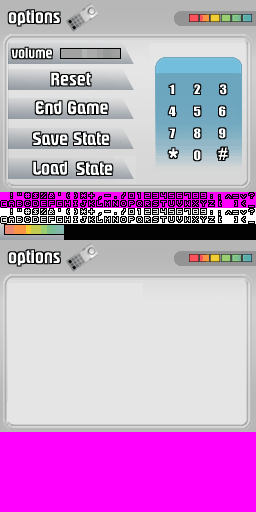
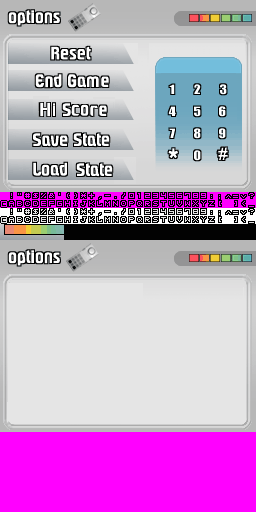
V0.4 with command line parameter support.

Changed region(s): [[0.0312, 0.0625, 0.4688, 0.375], [0.25, 0.0, 0.375, 0.0625]]

diff --git a/arm9/source/colecoDS.c b/arm9/source/colecoDS.c
@@ -53,8 +53,6 @@ bool isFATSystem=false;
 char szFATDir[256];
 char szDrv[15];
 
-u32 uSndAct;                      // Actual sound divider
-
 unsigned int soundEmuPause=1;
 
 int bg0, bg1, bg0b,bg1b;
@@ -85,18 +83,9 @@ u8 XBuf[256*256] ALIGN(32) = {0}; // Really it's only 256x192
 //*****************************************************************************
 // Boucle principale d'execution
 //*****************************************************************************
-void showMainMenu(void) {
-  u32 bBcl;
-  
-  u16 *pusEcran=(u16*) bgGetMapPtr(bg1b);
+void showMainMenu(void) 
+{
   dmaCopy((void*) bgGetMapPtr(bg0b),(void*) bgGetMapPtr(bg1b),32*24*2);
-
-  for (bBcl=0;bBcl<8;bBcl++) {
-    if ((8-(uSndAct-1)*2)>bBcl) {
-      *(pusEcran + 7 + bBcl + (6<<5)) =*((bgGetMapPtr(bg0b)+28*32+bBcl)); //*((u16*) &ecranBasMap[28][bBcl] );
-      *(pusEcran + 7 + bBcl + (7<<5)) =*((bgGetMapPtr(bg0b)+29*32+bBcl)); // *((u16*) &ecranBasMap[29][bBcl] );
-    }
-  }
 }
 
 ITCM_CODE void VsoundHandler(void)
@@ -150,7 +139,7 @@ u16 timingFrames=0;
 ITCM_CODE void colecoDS_main (void) {
   u32 keys_pressed;
   u16 iTx, iTy,iBcl;
-  u32 ucUN, ucDEUX, ResetNow = 0, SaveNow = 0, SoundNow = 0, LoadNow=0;
+  u32 ucUN, ucDEUX, ResetNow = 0, SaveNow = 0, LoadNow = 0;
   
   // Affiche le nouveau menu
   showMainMenu();
@@ -214,20 +203,9 @@ ITCM_CODE void colecoDS_main (void) {
         touchRead(&touch);
         iTx = touch.px;
         iTy = touch.py;
-        // Test if "Adjust sound" selected
-        if ((iTx>=6*8) && (iTy>=6*8) && (iTx<=15*8) && (iTy<=8*8) ) {
-          if (!SoundNow) {
-            SoundNow=1;
-            uSndAct = (uSndAct == 4 ? 1 : uSndAct + 1);
-            showMainMenu();
-            fifoSendValue32(FIFO_USER_01,(1<<16) | (127-(uSndAct-1)*24) | SOUND_SET_VOLUME);
-          }
-        }
-        else
-          SoundNow = 0;
     
         // Test if "Reset Game" selected
-        if ((iTx>=1*8) && (iTy>=9*8) && (iTx<=(1+14)*8) && (iTy<11*8) ) {
+        if ((iTx>=1*8) && (iTy>=6*8) && (iTx<=(1+14)*8) && (iTy<9*8) ) {
           if (!ResetNow) {
             ResetNow = 1;
             // Stop sound
@@ -261,7 +239,7 @@ ITCM_CODE void colecoDS_main (void) {
         }
         
         // Test if "End Game" selected
-        if ((iTx>=1*8) && (iTy>=12*8) && (iTx<=(1+14)*8) && (iTy<15*8) ) {
+        if ((iTx>=1*8) && (iTy>=9*8) && (iTx<=(1+14)*8) && (iTy<12*8) ) {
           // Stop sound
           soundEmuPause=1;
     
@@ -273,7 +251,15 @@ ITCM_CODE void colecoDS_main (void) {
           showMainMenu();
           soundEmuPause=0;
         }
-    
+
+        // Test if "High Score" selected
+        if ((iTx>=1*8) && (iTy>=12*8) && (iTx<=(1+14)*8) && (iTy<15*8) ) {
+          // Stop sound
+          soundEmuPause=1;
+          //TODO: Add High Score Support here...    
+          soundEmuPause=0;
+        }
+          
         // Test if "Save State" selected
         if ((iTx>=1*8) && (iTy>=16*8) && (iTx<=(1+14)*8) && (iTy<19*8) ) 
         {
@@ -322,7 +308,7 @@ ITCM_CODE void colecoDS_main (void) {
         ucUN = ( ((iTx>=210) && (iTy>=144) && (iTx<=234) && (iTy<=164)) ? 0x05: ucUN);
       } // SCR_TOUCH
       else {
-        ResetNow=SaveNow=SoundNow=LoadNow = 0;
+        ResetNow=SaveNow=LoadNow = 0;
       }
     
       // Test touches
@@ -355,7 +341,6 @@ ITCM_CODE void colecoDS_main (void) {
  * Init EMul
  ********************************************************************************/
 void colecoDSInit(void) {
-  char szFATDrv[5];
 
   // Get the personnals infos (language, name)
   lgeEmul = (PersonalData->language == 2 ? 0 : 1);
@@ -403,18 +388,6 @@ void colecoDSInit(void) {
   strcpy(szFATDir,"/");
   if (isFATSystem) chdir(szFATDir);
     
-  // Init drives
-  if (isFATSystem) {
-    struct stat st;
-    stat("/",&st);
-    int i = st.st_dev;//disc_HostType();
-    szFATDrv[0] = (i & 0x000000FF) >> 0;
-    szFATDrv[1] = (i & 0x0000FF00) >> 8;
-    szFATDrv[2] = (i & 0x00FF0000) >> 16;
-    szFATDrv[3] = (i & 0xFF000000) >> 24;
-    szFATDrv[4] = '\0';
-  }
-
   // Find the files
   colecoDSFindFiles();
 }
@@ -476,7 +449,9 @@ bool ColecoBIOSFound(void)
 /*********************************************************************************
  * Program entry point
  ********************************************************************************/
-int main(int argc, char **argv) {
+char initial_file[256];
+int main(int argc, char **argv) 
+{
   // Init sound
   consoleDemoInit();
   soundEnable();
@@ -505,6 +480,27 @@ int main(int argc, char **argv) {
   vramSetBankI(VRAM_I_LCD );                // Not using this for video but 16K of faster RAM always useful!  Mapped at 0x068A0000 - Used for Custom Tile Map Buffer
 
 
+  // Handle command line argument... mostly for TWL++
+  if (argc > 1) 
+  {
+      // We want to start in the directory where the file is being launched...
+      if (strchr(argv[1], '/') != NULL)
+      {
+          char path[128];
+          strcpy(path, argv[1]);
+          char *ptr = &path[strlen(path)-1];
+          while (*ptr != '/') ptr--;
+          ptr++; 
+          strcpy(initial_file, ptr);
+          *ptr=0;
+          chdir(path);
+      }
+      else
+      {
+          strcpy(initial_file, argv[1]);
+      }
+  } else initial_file[0]=0; // No file passed on command line...
+    
   // BOUCLE INFINIE !!!!
   while(1) {
     // init de l'emul et chargement des roms
@@ -528,9 +524,19 @@ int main(int argc, char **argv) {
         while(1) ;
     }
   
-    while(1) {
+    while(1) 
+    {
       // Choose option
-      colecoDSChangeOptions();
+      if (initial_file[0] != 0)
+      {
+          ucGameAct=0;
+          strcpy(gpFic[ucGameAct].szName, initial_file);
+          initial_file[0] = 0; // No more initial file...
+      }
+      else 
+      {
+          colecoDSChangeOptions();
+      }
 
       // Run Machine
       colecoDSInitCPU();

diff --git a/arm9/source/colecogeneric.c b/arm9/source/colecogeneric.c
@@ -529,7 +529,6 @@ u8 colecoDSLoadFile(void) {
   while ((keysCurrent() & (KEY_TOUCH | KEY_START | KEY_SELECT | KEY_A | KEY_B | KEY_R | KEY_L | KEY_UP | KEY_DOWN))!=0);
   
   ucGameChoice = ucGameAct;
-  //wifiSendLast = 0;
   
   return 0x01;
 }

diff --git a/arm9/source/colecoDS.h b/arm9/source/colecoDS.h
@@ -4,7 +4,7 @@
 #include <nds.h>
 #include <string.h>
 
-#define VERSIONCLDS "0.3"
+#define VERSIONCLDS "0.4"
 
 #define DEBUGNO
 #define USEDRZ80
